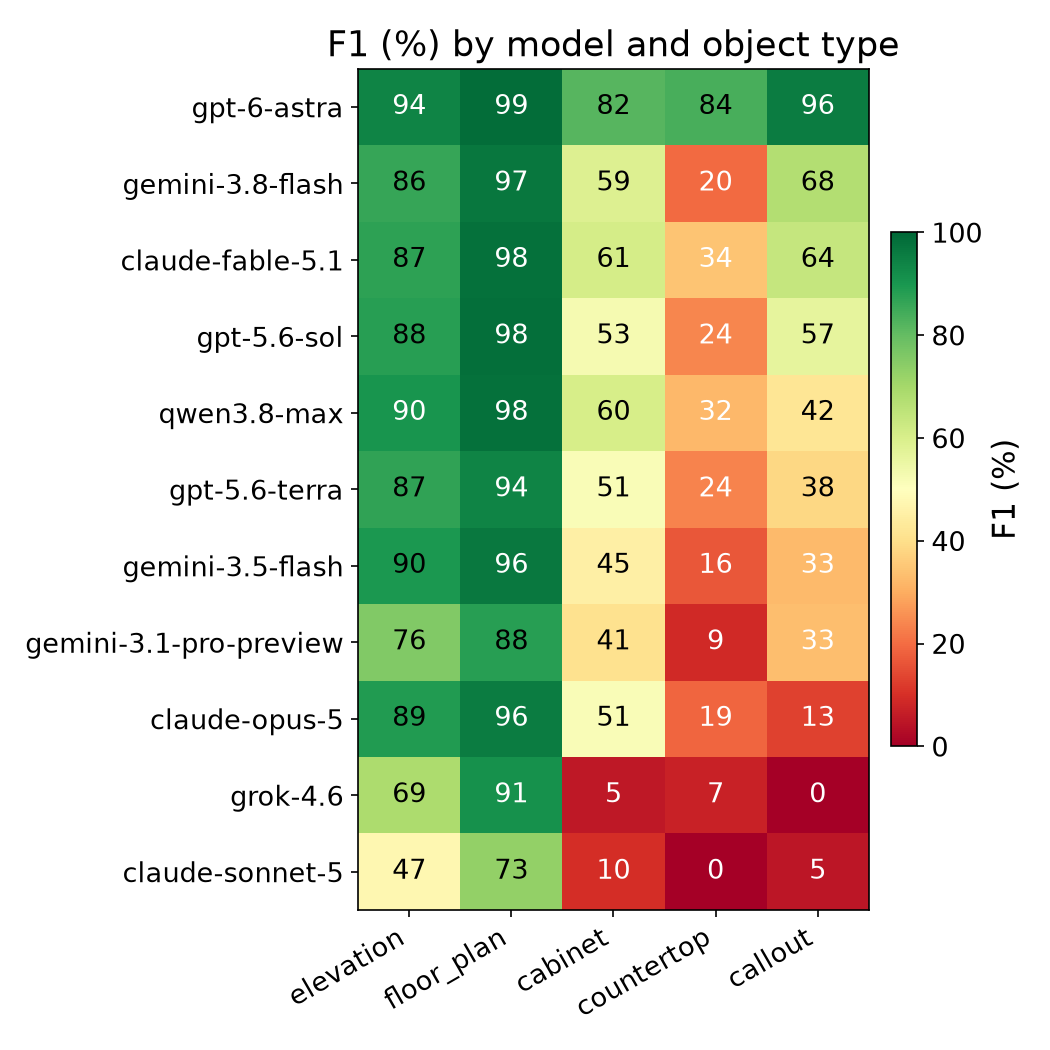
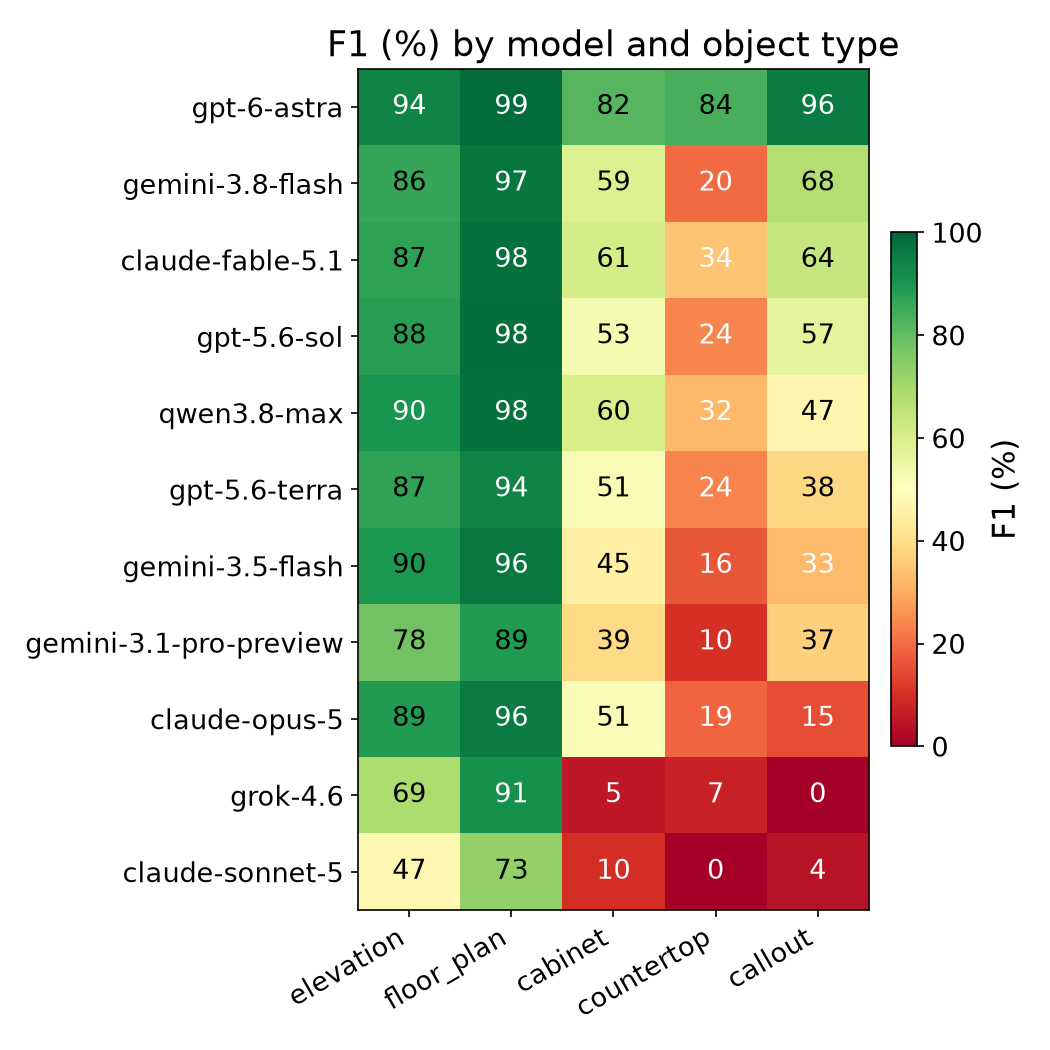
docs: update paper figures and results, drop trim_ naming, add data availability
- Correct F1 values for qwen3.8-max, gemini-3.5-flash, gemini-3.1-pro-preview,
  claude-sonnet-5 and per-type scores; update derived spread (21.0-91.6%, 4.4x)
  and cost-efficiency ranking
- Rename trim_prj1-9 to prj1-9 and remove the "trimmed dataset" marker
- Add data and code availability section and references to paper and methodology
- Regenerate figures

diff --git a/docs/one-stage-benchmark/one-stage-benchmark-paper.md b/docs/one-stage-benchmark/one-stage-benchmark-paper.md
@@ -2,11 +2,10 @@
 
 Andrii Chumak, Iryna Mykytyn, Andrian Kozynets, Yurii Didyk, Yelysaveta Mykytyn, Victor Mykhailov, Volodymyr Hresko
 
-Coxit
+COXIT
 
-*VERSION BY 15.09.26*
+*VERSION BY 18.09.26*
 
-*TRIMMED DATASET*
 
 ## Abstract
 
@@ -23,7 +22,7 @@ real construction-document PDFs, and evaluate eleven current VLMs from five prov
 prompting protocol, scored by greedy IoU matching against ground truth at IoU ≥ 0.5
 with real, provider-reported per-request dollar cost. Across nine annotated sheet sets
 (1,353 ground-truth objects), aggregate micro-averaged F1 is **55.4%**, ranging from
-**22.0%** to **91.6%** across models — a 4.2× spread wide enough that model choice
+**21.0%** to **91.6%** across models — a 4.4× spread wide enough that model choice
 dominates prompt design entirely. One model, `gpt-6-astra`, stands apart from the rest
 of the field: it is the only model tested that keeps a high F1 (>80%) on the three
 small, densely packed object types (`cabinet`, `countertop`, `callout`) where every
@@ -126,21 +125,21 @@ accounting — the gap this paper's benchmark is built to fill.
 
 CaseV-Bench's current evaluation set consists of nine real millwork/casework drawing
 sets, submitted as multi-page PDFs. Documents vary substantially in length and object
-density — from a 2-page, 48-object set (`trim_prj2`) to a 34-page, 234-object set
-(`trim_prj7`) — which is a deliberate property of the dataset, not an artifact: it lets
+density — from a 2-page, 48-object set (`prj2`) to a 34-page, 234-object set
+(`prj7`) — which is a deliberate property of the dataset, not an artifact: it lets
 per-document difficulty (§6.2) separate "hard because dense" from "hard because large."
 
 | Document | Pages | GT objects |
 |---|---:|---:|
-| `trim_prj1` | 3 | 74 |
-| `trim_prj2` | 2 | 48 |
-| `trim_prj3` | 7 | 34 |
-| `trim_prj4` | 9 | 241 |
-| `trim_prj5` | 2 | 80 |
-| `trim_prj6` | 24 | 323 |
-| `trim_prj7` | 34 | 234 |
-| `trim_prj8` | 29 | 231 |
-| `trim_prj9` | 9 | 94 |
+| `prj1` | 3 | 74 |
+| `prj2` | 2 | 48 |
+| `prj3` | 7 | 34 |
+| `prj4` | 9 | 241 |
+| `prj5` | 2 | 80 |
+| `prj6` | 24 | 323 |
+| `prj7` | 34 | 234 |
+| `prj8` | 29 | 231 |
+| `prj9` | 9 | 94 |
 | **Total** | **119** | **1,353** |
 
 All PDFs are rendered to raster images at request time by the application itself, never
@@ -172,7 +171,7 @@ the object's own outermost drawn line, with no padding.
 By ground-truth object count, the taxonomy is dominated by `callout` (480, 35.5%) and
 `elevation` (300, 22.2%), with `floor_plan` (166, 12.3%), `cabinet` (317, 23.4%), and
 `countertop` (90, 6.7%) making up the rest. `callout`'s share is inflated by two
-outlier-dense documents (`trim_prj4`: 181 of 241 objects; `trim_prj8`: 130 of 231) that
+outlier-dense documents (`prj4`: 181 of 241 objects; `prj8`: 130 of 231) that
 contain long runs of plan-view reference symbols; excluding those two documents, the
 label distribution is closer to even across the five types.
 
@@ -185,6 +184,18 @@ shrink every box by a factor of `(dpi / 72)`, large enough at typical rendering 
 (180–500) to collapse true-positive counts toward zero while producing no visible error.
 Every scoring path derives each page's native point dimensions independently of the DPI
 used for a given model call, and normalizes ground truth against that.
+
+### 3.4 Data and code availability
+
+CaseV-Bench is a public benchmark. Aggregate, headline results are published at
+[casevbench.com](https://casevbench.com/) and
+[coxit.co/ai-drawing-benchmark](https://coxit.co/ai-drawing-benchmark/), alongside a
+companion methodology write-up [7]. The evaluation code — including the IoU
+greedy-matching scorer used throughout §5–§6 — is public at
+[github.com/COXIT-CO/CaseV-bench](https://github.com/COXIT-CO/CaseV-bench/) [8]. That
+repository also carries a **subset** of the annotated dataset as a public reference; the
+complete nine-document, 1,353-object ground-truth set evaluated in this paper (§3.1) has
+not been publicly released.
 
 ## 4. Method: One-Stage detection
 
@@ -313,7 +324,11 @@ models from five providers. Where a (model, document) pair was run more than onc
 most recent run is used (§6.6 notes this as a scope decision, not a hidden average).
 Aggregate metrics are micro-averaged (§5.1): true positives, false positives, and false
 negatives are summed across all documents before precision/recall/F1 are computed once,
-so one large document does not get outweighed by several small ones.
+so one large document does not get outweighed by several small ones. COXIT also
+publishes an aggregate, public-facing summary of this benchmark's headline results,
+together with a companion methodology write-up [7]; the tables and analysis below are
+the full per-model, per-document, and per-object-type breakdown behind that public
+summary.
 
 ### 6.1 Headline — accuracy by model
 
@@ -323,13 +338,13 @@ so one large document does not get outweighed by several small ones.
 | `gemini-3.8-flash` | Google | 958 | 349 | 472 | 73.3% | 67.0% | **70.0%** | $0.98 | 120.2 s |
 | `claude-fable-5.1` | Anthropic | 1,003 | 439 | 427 | 69.6% | 70.1% | **69.8%** | $2.16 | 33.6 s |
 | `gpt-5.6-sol` | OpenAI | 932 | 517 | 498 | 64.3% | 65.2% | **64.7%** | $0.79 | 58.8 s |
-| `qwen3.8-max` | Qwen | 956 | 895 | 397 | 51.6% | 70.7% | **59.7%** | $0.75 | 178.7 s |
+| `qwen3.8-max` | Qwen | 956 | 895 | 397 | 51.6% | 70.7% | **62.0%** | $0.75 | 178.7 s |
 | `gpt-5.6-terra` | OpenAI | 824 | 671 | 606 | 55.1% | 57.6% | **56.3%** | $0.74 | 35.2 s |
-| `gemini-3.5-flash` | Google | 756 | 706 | 597 | 51.7% | 55.9% | **53.7%** | $0.46 | 28.5 s |
-| `gemini-3.1-pro-preview` | Google | 593 | 448 | 760 | 57.0% | 43.8% | **49.5%** | $0.52 | 29.7 s |
+| `gemini-3.5-flash` | Google | 756 | 706 | 597 | 51.7% | 55.9% | **53.0%** | $0.46 | 28.5 s |
+| `gemini-3.1-pro-preview` | Google | 593 | 448 | 760 | 57.0% | 43.8% | **51.0%** | $0.52 | 29.7 s |
 | `claude-opus-5` | Anthropic | 722 | 1,542 | 631 | 31.9% | 53.4% | **39.9%** | $1.77 | 70.5 s |
 | `grok-4.6` | xAI | 376 | 740 | 977 | 33.7% | 27.8% | **30.5%** | $1.92 | 346.9 s |
-| `claude-sonnet-5` | Anthropic | 316 | 1,205 | 1,037 | 20.8% | 23.4% | **22.0%** | $0.96 | 71.0 s |
+| `claude-sonnet-5` | Anthropic | 316 | 1,205 | 1,037 | 20.8% | 23.4% | **21.0%** | $0.96 | 71.0 s |
 | **All models pooled** | — | 8,790 | 7,683 | 6,478 | 53.4% | 57.6% | **55.4%** | — | — |
 
 ![F1, precision, and recall by model](figures/fig1_f1_by_model.png)
@@ -337,8 +352,8 @@ so one large document does not get outweighed by several small ones.
 Three things stand out. **One model, `gpt-6-astra`, is in a different regime from
 every other model tested**: 91.6% F1, more than 20 points clear of the next-best model
 (`gemini-3.8-flash`, 70.0%) and more than 30 points clear of every other model in the
-field. Second, **the overall spread across all eleven models is wide** — 22.0% to
-91.6% F1, a **4.2× range** — for the *same* prompt, the *same* documents, and the
+field. Second, **the overall spread across all eleven models is wide** — 21.0% to
+91.6% F1, a **4.4× range** — for the *same* prompt, the *same* documents, and the
 *same* IoU threshold; model choice is not just a consequential lever on accuracy, it is
 the dominant one. Third, **the ranking does not track provider "flagship" status
 cleanly**: `gpt-6-astra` leads by a wide margin, but `claude-sonnet-5` is the weakest
@@ -353,23 +368,23 @@ trading one for the other.
 
 | Document | Pages | GT objects | F1 (all models pooled) |
 |---|---:|---:|---:|
-| `trim_prj1` | 3 | 74 | 40.0% |
-| `trim_prj2` | 2 | 48 | 55.9% |
-| `trim_prj3` | 7 | 34 | 67.5% |
-| `trim_prj4` | 9 | 241 | 53.6% |
-| `trim_prj5` | 2 | 80 | **77.0%** |
-| `trim_prj6` | 24 | 323 | 45.5% |
-| `trim_prj7` | 34 | 234 | 55.1% |
-| `trim_prj8` | 29 | 231 | 70.9% |
-| `trim_prj9` | 9 | 94 | 53.0% |
+| `prj1` | 3 | 74 | 40.0% |
+| `prj2` | 2 | 48 | 55.9% |
+| `prj3` | 7 | 34 | 67.5% |
+| `prj4` | 9 | 241 | 53.6% |
+| `prj5` | 2 | 80 | **77.0%** |
+| `prj6` | 24 | 323 | 45.5% |
+| `prj7` | 34 | 234 | 55.1% |
+| `prj8` | 29 | 231 | 70.9% |
+| `prj9` | 9 | 94 | 53.0% |
 
 ![F1 by document](figures/fig2_f1_by_document.png)
 
-`trim_prj5` (2 pages) is the easiest document (77.0%) and `trim_prj1` (3 pages) is the
+`prj5` (2 pages) is the easiest document (77.0%) and `prj1` (3 pages) is the
 hardest (40.0%) — both among the three smallest documents in the set, in either
 direction. The three largest documents span most of the range rather than clustering
-together: `trim_prj8` (29 pages) is the second-best result (70.9%), `trim_prj7` (34
-pages) sits near the median (55.1%), and `trim_prj6` (24 pages) is the second-worst
+together: `prj8` (29 pages) is the second-best result (70.9%), `prj7` (34
+pages) sits near the median (55.1%), and `prj6` (24 pages) is the second-worst
 (45.5%). Object *density* and *type mix* (§6.3) appear to matter more for this
 configuration than page count or raw object count per se; a per-document, per-model
 breakdown is left for future work.
@@ -402,16 +417,16 @@ Per-model, the picture is stark:
 | Model | `elevation` | `floor_plan` | `cabinet` | `countertop` | `callout` |
 |---|---:|---:|---:|---:|---:|
 | `gpt-6-astra` | **93.8%** | **98.8%** | **81.8%** | **83.6%** | **95.6%** |
-| `qwen3.8-max` | 90.4% | 97.9% | 60.3% | 32.4% | 42.1% |
+| `qwen3.8-max` | 90.4% | 97.9% | 60.3% | 32.4% | 47.0% |
 | `gemini-3.5-flash` | 89.6% | 96.4% | 45.3% | 16.5% | 32.8% |
-| `claude-opus-5` | 88.7% | 95.5% | 51.2% | 18.8% | 13.2% |
+| `claude-opus-5` | 88.7% | 95.5% | 51.2% | 18.8% | 15.0% |
 | `gpt-5.6-sol` | 87.9% | 98.2% | 52.6% | 24.2% | 56.6% |
 | `claude-fable-5.1` | 87.2% | 97.9% | 60.7% | 34.4% | 63.8% |
 | `gpt-5.6-terra` | 86.9% | 93.9% | 51.3% | 23.5% | 38.3% |
 | `gemini-3.8-flash` | 86.1% | 96.7% | 58.8% | 19.8% | 67.5% |
-| `gemini-3.1-pro-preview` | 75.6% | 88.0% | 40.8% | 8.7% | 33.3% |
+| `gemini-3.1-pro-preview` | 78.0% | 89.0% | 39.0% | 10.0% | 37.0% |
 | `grok-4.6` | 68.7% | 91.4% | 5.4% | 7.4% | 0.3% |
-| `claude-sonnet-5` | 47.3% | 73.0% | 9.7% | 0.0% | 4.7% |
+| `claude-sonnet-5` | 47.3% | 73.0% | 9.7% | 0.0% | 4.0% |
 
 `gpt-6-astra` is the single best model on every one of the five types, and unlike every
 other model in the set, it does not show the large-vs-small gap at all: its own worst
@@ -423,7 +438,7 @@ be a property of the other ten models, not of the task itself. `grok-4.6` and
 `claude-sonnet-5` are the clearest examples of the conventional pattern: both score far
 higher on the two large region types (47.3–91.4% F1) than on any small object type, and
 both collapse on small objects specifically (`cabinet` 5.4–9.7%, `countertop`
-0.0–7.4%, `callout` 0.3–4.7%). §6.4 examines whether the *other* ten models' gap is a
+0.0–7.4%, `callout` 0.3–4.0%). §6.4 examines whether the *other* ten models' gap is a
 placement-precision problem or a detection problem and finds it is mostly the latter.
 
 ### 6.4 Precision of placement vs. failure to detect
@@ -479,9 +494,9 @@ being the most accurate model does not also mean being the cheapest. Among the
 remaining ten models, a "cheap and accurate" pattern roughly holds: the three cheapest
 models by mean cost per document — `gemini-3.5-flash` ($0.46/doc),
 `gemini-3.1-pro-preview` ($0.52/doc), and `gpt-5.6-terra` ($0.74/doc) — are mid-table
-on accuracy (49.5–56.3% F1) rather than at the bottom, and `claude-sonnet-5` is the
+on accuracy (51.0–56.3% F1) rather than at the bottom, and `claude-sonnet-5` is the
 standout exception: a cheap model ($0.96/doc) that is nonetheless the least accurate of
-all eleven (22.0% F1). `grok-4.6` is the worst value in the evaluation on every axis it
+all eleven (21.0% F1). `grok-4.6` is the worst value in the evaluation on every axis it
 is not `gpt-6-astra`-adjacent: the second-highest cost per document, by far the highest
 mean latency (346.9 s/doc — 2–12× every other model), and the second-lowest F1.
 
@@ -489,12 +504,12 @@ mean latency (346.9 s/doc — 2–12× every other model), and the second-lowest
 
 Because raw cost and raw accuracy do not move together once `gpt-6-astra` is included,
 a cost-efficiency view — F1 points earned per dollar spent per document — adds
-information the headline table does not: `gemini-3.5-flash` (116.4 F1 pts/$),
-`gemini-3.1-pro-preview` (95.0), and `gpt-5.6-sol` (81.5) are the three most
+information the headline table does not: `gemini-3.5-flash` (115.2 F1 pts/$),
+`gemini-3.1-pro-preview` (98.1), and `qwen3.8-max` (82.7) are the three most
 cost-efficient models, while `gpt-6-astra` — despite leading on raw accuracy by more
-than 20 points — ranks only **7th of 11** on this measure (31.5 F1 pts/$), behind
-every model it beats on F1 except `claude-fable-5.1`, `claude-sonnet-5`, `claude-opus-5`,
-and `grok-4.6`. Whether `gpt-6-astra`'s accuracy is worth its cost premium is therefore a
+than 20 points — ranks only **8th of 11** on this measure (31.5 F1 pts/$), behind
+every model it beats on F1 except `claude-sonnet-5`, `claude-opus-5`, and `grok-4.6`.
+Whether `gpt-6-astra`'s accuracy is worth its cost premium is therefore a
 deployment-specific question this paper does not resolve: for a use case where missing a
 small `cabinet` or `countertop` is costly, `gpt-6-astra`'s large lead on exactly those
 types (§6.3) may justify roughly 4–6× the per-document cost of the next tier of models;
@@ -510,7 +525,7 @@ how much weight to put on small differences:
   more than once; no repeated-trial variance estimate is available from this data.
   Differences of a few F1 points between two models should not be read as
   statistically distinguished from noise; the differences this section leads with (the
-  4.2× model spread in §6.1, `gpt-6-astra`'s absence of a large-vs-small gap in §6.3) are
+  4.4× model spread in §6.1, `gpt-6-astra`'s absence of a large-vs-small gap in §6.3) are
   much larger than that.
 - **Coverage across (model, document) pairs was not perfectly uniform** in the
   underlying run history — some pairs were run more than once before the most-recent-run
@@ -578,7 +593,7 @@ configuration.** §6.6 already states the run-repetition caveat; the IoU thresho
 is a second, related one. A looser or tighter threshold would shift every number in §6
 without necessarily changing the ranking, but that has not been checked, and no
 statistical test accompanies any comparison in this paper — the differences led with in
-§6 (a 4.2× model spread, `gpt-6-astra`'s absence of a large-vs-small gap) are treated as
+§6 (a 4.4× model spread, `gpt-6-astra`'s absence of a large-vs-small gap) are treated as
 self-evidently larger than plausible run-to-run noise rather than formally tested as
 such.
 
@@ -601,13 +616,13 @@ Returning to the four questions posed in §1:
    F1) as well as the two large region types (93.8–98.8% F1). For that one model,
    single-pass VLM prompting looks like a plausible unattended first pass on this
    document class, not just an assisted-review signal. For the remaining ten models —
-   the best of which is `qwen3.8-max` at 59.7% — the pattern is different: strong
+   the best of which is `qwen3.8-max` at 62.0% — the pattern is different: strong
    enough on `floor_plan`/`elevation` (73.0–97.9% F1) to be a useful first pass, too
    weak on `cabinet`/`countertop`/`callout` (0–68% F1 outside `gpt-6-astra`) for
    unattended use.
 
 2. **Does model choice matter more than prompt engineering?** Within one fixed,
-   carefully iterated prompt, F1 spans 22.0–91.6% across eleven models (§6.1) — a 4.2×
+   carefully iterated prompt, F1 spans 21.0–91.6% across eleven models (§6.1) — a 4.4×
    range. That range is far larger than any plausible prompt-engineering gain, which
    means model selection is not a detail to fix arbitrarily and iterate the prompt
    around; it is the single largest lever measured in this paper, larger than the
@@ -679,6 +694,12 @@ protocol is planned as a second follow-up study, alongside Two-Stage.
 6. Y. Ding, S. Luo, Y. Dai, Y. Jiang, Z. Li, Q. Sun, G. Martin, W. Liu, and Y. Peng. A
    Survey on MLLM-based Visually Rich Document Understanding: Methods, Challenges, and
    Emerging Trends. arXiv:2507.09861.
+7. COXIT. CaseV-Bench: AI Architectural Drawings Benchmark.
+   https://coxit.co/ai-drawing-benchmark/ and https://casevbench.com/ (accessed
+   2026-09-15); methodology write-up at
+   https://coxit.co/blog/ai-architectural-drawings-benchmark-part-2/.
+8. COXIT-CO/CaseV-bench. Evaluation code and public dataset sample (GitHub repository).
+   https://github.com/COXIT-CO/CaseV-bench/.
 
 ## Appendix A — Full One-Stage prompt text
 

diff --git a/docs/one-stage-benchmark/METHODOLOGY.md b/docs/one-stage-benchmark/METHODOLOGY.md
@@ -197,6 +197,18 @@ earlier integer-scale finding still holds against the *current* prompt and
 taxonomy has not been directly re-tested, and should not be assumed to
 generalize.
 
+### 2.4 Data and code availability
+
+CaseV-Bench is a public benchmark. Aggregate, headline results are published at
+[casevbench.com](https://casevbench.com/) and
+[coxit.co/ai-drawing-benchmark](https://coxit.co/ai-drawing-benchmark/), alongside a
+companion methodology write-up on the COXIT blog. The evaluation code — including the
+IoU greedy-matching scorer used throughout §5 — is public at
+[github.com/COXIT-CO/CaseV-bench](https://github.com/COXIT-CO/CaseV-bench/). That
+repository also carries a **subset** of the annotated dataset as a public reference; the
+complete nine-document, 1,353-object ground-truth set described in §2.1 has not been
+publicly released.
+
 ## 3. Detection methods
 
 All three methods share the same downstream pipeline once a raw model
